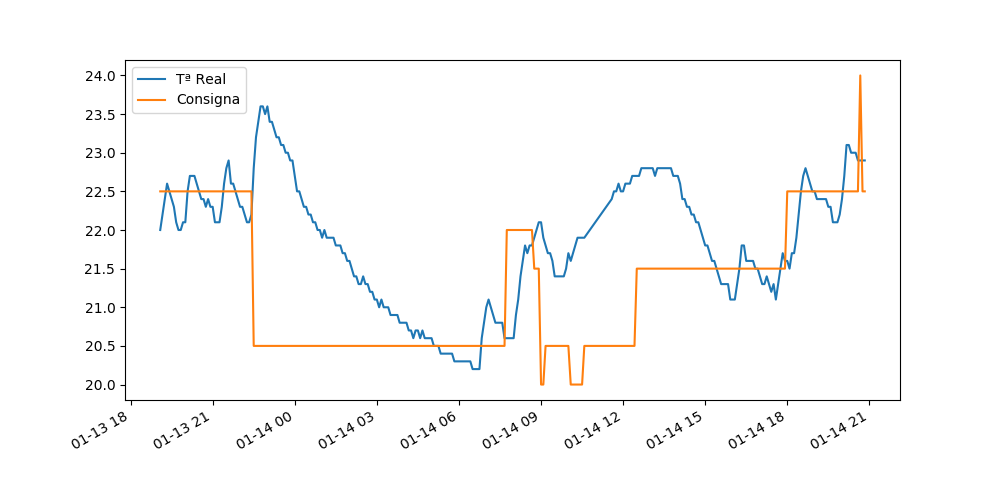
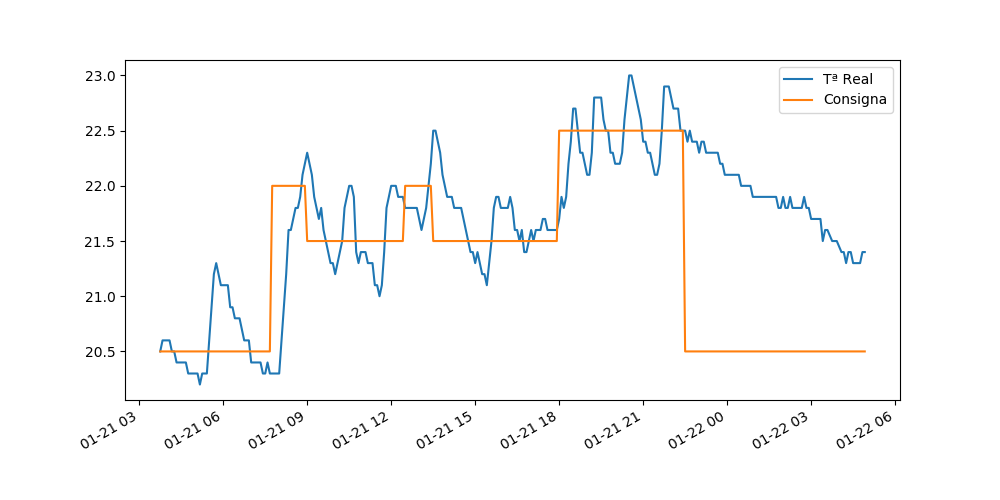
Update

diff --git a/python/termoflask/etc/sqlite.py b/python/termoflask/etc/sqlite.py
@@ -27,6 +27,7 @@ class Sqlite:
         cursorObj = self.con.cursor()
         cursorObj.execute("CREATE TABLE IF NOT EXISTS datos_temp(hora date PRIMARY KEY, exterior real, interior real, consigna real, rele)")
         cursorObj.execute("CREATE TABLE IF NOT EXISTS datos_dia(dia date PRIMARY KEY, media_ext real, media_int real, minutos)")
+        cursorObj.execute("CREATE TABLE IF NOT EXISTS datos_set(t_ext real PRIMARY KEY, inercia_on real, rampa_on real, inercia_off real, rampa_off real)")
 
         # Caldular datos anteriores
         self.anterior_dato()
@@ -62,7 +63,7 @@ class Sqlite:
 
     def prueba(self):
         cursorObj = self.con.cursor()
-        cursorObj.execute("SELECT hora, interior, rele, consigna from datos_temp order by hora desc limit 300")
+        cursorObj.execute("SELECT hora, interior, consigna, exterior from datos_temp order by hora desc limit 300")
         return cursorObj.fetchall()
 
     def minutos_dia(self,dia):
@@ -131,4 +132,110 @@ class Sqlite:
             hora_on = datetime.strptime(datos[0][0], '%Y-%m-%d %H:%M:%S')
             inercia = hora_inercia - hora_on
             inercia = round(inercia.seconds/60)
+            
+
+            # Guardar el dato
             print(f"La inercia de encendido es de {inercia} minutos con una temperatura exterior de {media_exterior}ºC.")
+            
+            cursorObj.executescript(f"""
+                INSERT OR IGNORE INTO datos_set(t_ext) VALUES({media_exterior});
+                UPDATE datos_set SET inercia_on={inercia} WHERE t_ext={media_exterior};   
+            """)
+
+    def parametros(self):
+        cursorObj = self.con.cursor()
+        cursorObj.execute("SELECT * from datos_temp order by hora asc limit 2000")
+        registros = cursorObj.fetchall()
+
+
+        # Cálculo de lcos ciclos de enciendido y apagado
+        i = 0
+        ciclo_on=[]
+        ciclo_off=[]
+
+        hora_on = datetime.strptime(registros[0][0], '%Y-%m-%d %H:%M:%S')
+        hora_off = datetime.strptime(registros[0][0], '%Y-%m-%d %H:%M:%S')
+            
+        for registro in registros:
+            
+            if i > 0 and registros[i-1][4] == "off" and registro[4] == "on":
+                hora_on = datetime.strptime(registro[0], '%Y-%m-%d %H:%M:%S')
+                tiempo_off = hora_on - hora_off
+
+                if tiempo_off.seconds/60 > 45:
+                    ciclo_off.append(hora_off)
+            
+            if i > 0 and registros[i-1][4] == "on" and registro[4] == "off":
+                hora_off = datetime.strptime(registro[0], '%Y-%m-%d %H:%M:%S')
+                tiempo_on = hora_off - hora_on
+                
+                if tiempo_on.seconds/60 > 21:
+                    ciclo_on.append(hora_on)
+            i += 1
+
+        # Cálculo de la pendiente de enfriamiento a partir de los ciclos de apagado     
+        for ciclo in ciclo_off:
+            i = 0
+            buscando_max = False
+            buscando_min = False
+            for registro in registros:
+                hora = datetime.strptime(registro[0], '%Y-%m-%d %H:%M:%S')
+                if hora == ciclo:
+                    temp = registro[2]
+                    buscando_max = True
+                if buscando_max and registro[2] < temp:
+                    hora_ini = hora
+                    temp_max = registro[2]
+                    buscando_max = False
+                    buscando_min = True
+                if buscando_min and registro[4] == "on":
+                    hora_fin = hora
+                    temp_min = registro[2]
+                    temp_ext = round(registro[1])
+                    buscando_min = False
+
+            if hora_fin > hora_ini:
+                tiempo = hora_fin - hora_ini
+                pendiente = round((temp_max - temp_min) / (tiempo.seconds/3600),2)
+                pendiente_ant = self.obtener("datos_set","rampa_off","t_ext",temp_ext)
+                if pendiente_ant != None:
+                    pendiente = (pendiente_ant + pendiente_ant)/2
+                if pendiente > 0.1 and (tiempo.seconds)/60 > 30:
+                    print(f"Un ciclo empieza a las {hora_ini} con {temp_max}ºC y baja hasta las {hora_fin} con {temp_min}ºC ({pendiente}ºC/h")
+                    cursorObj.executescript(f"""
+                        INSERT OR IGNORE INTO datos_set(t_ext) VALUES({temp_ext});
+                        UPDATE datos_set SET rampa_off={pendiente} WHERE t_ext={temp_ext};   
+                    """)
+        
+        # Cálculo de la pendiente de calentamiento a partir de los ciclos de encendido     
+        for ciclo in ciclo_on:
+            i = 0
+            buscando_max = False
+            buscando_min = False
+
+            for registro in registros:
+                hora = datetime.strptime(registro[0], '%Y-%m-%d %H:%M:%S')
+                if hora == ciclo:
+                    temp = registro[2]
+                    buscando_min = True
+                
+                if buscando_min and registro[2] > temp:
+                    inercia = hora - ciclo
+                    print(inercia)
+                    buscando_min = False
+
+
+    
+    def obtener(self,tabla,campo,coincidencia,valor):
+        cursorObj = self.con.cursor()
+        cursorObj.execute(f"SELECT {campo} from {tabla} where {coincidencia} = {valor}")
+        datos = cursorObj.fetchone()
+        if datos == None:
+            return None
+        else:
+            return datos[0]
+
+
+
+
+

diff --git a/python/termoflask/etc/plot.py b/python/termoflask/etc/plot.py
@@ -26,25 +26,30 @@ class Plot:
         datax = []
         datay = []
         datayy = []
+        datayyy = []
 
         for registro in datos.prueba():
             hora = datetime.strptime(registro[0], '%Y-%m-%d %H:%M:%S')
             datax.append(hora)
             datay.append(registro[1])
             datayy.append(registro[2])
+            datayyy.append(registro[3])
 
         datax.reverse()
         datay.reverse()
         datayy.reverse()
+        datayyy.reverse()
 
         x = np.array(datax)
         y = np.array(datay)
         yy = np.array(datayy)
+        yyy = np.array(datayyy)
 
         plt.title('Consigna y valor real en Zaragoza')
         plt.figure(figsize=(10,5)) 
         plt.plot(x, y, label = "Tª Real")
         plt.plot(x, yy, label = "Consigna")
+        #plt.plot(x, yyy, label = "Tª Ext")
         #plt.xlabel('Horas')
         #plt.ylabel('Temperaturas')
         plt.gcf().autofmt_xdate()

diff --git a/python/termoflask/prueba.py b/python/termoflask/prueba.py
@@ -12,7 +12,10 @@ datos_sqlite = Sqlite("termostato.db")
 
 #datos_sqlite.minutos_dia("2021-01-17")
 
-datos_sqlite.inercia()
+datos_sqlite.parametros()
+
+
+
 
 
 